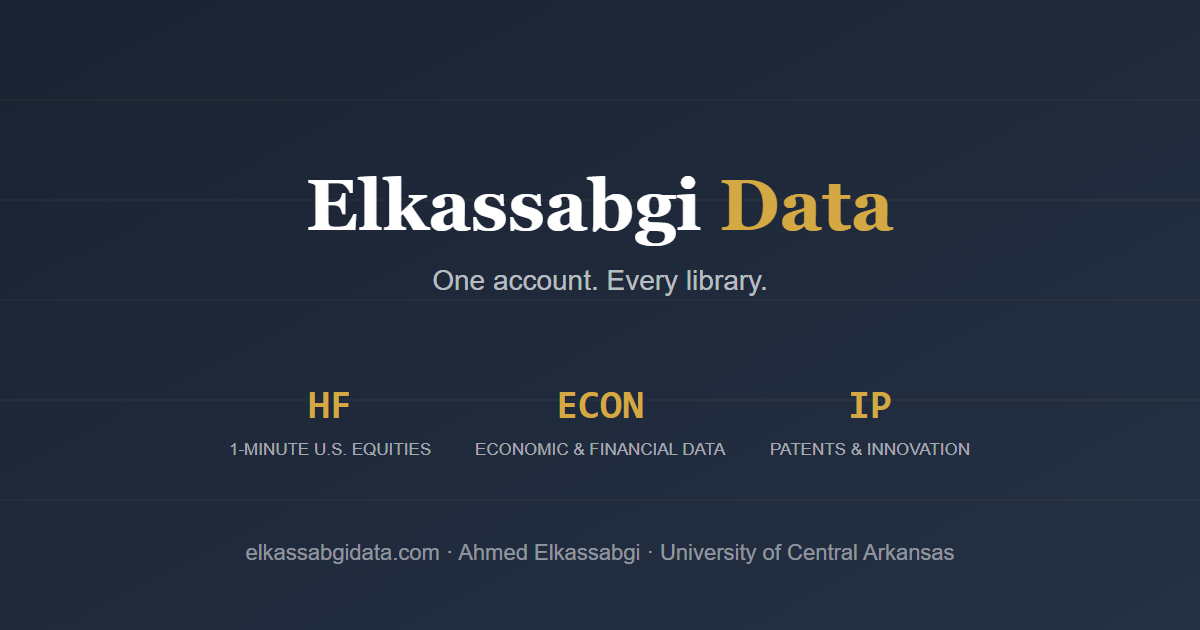
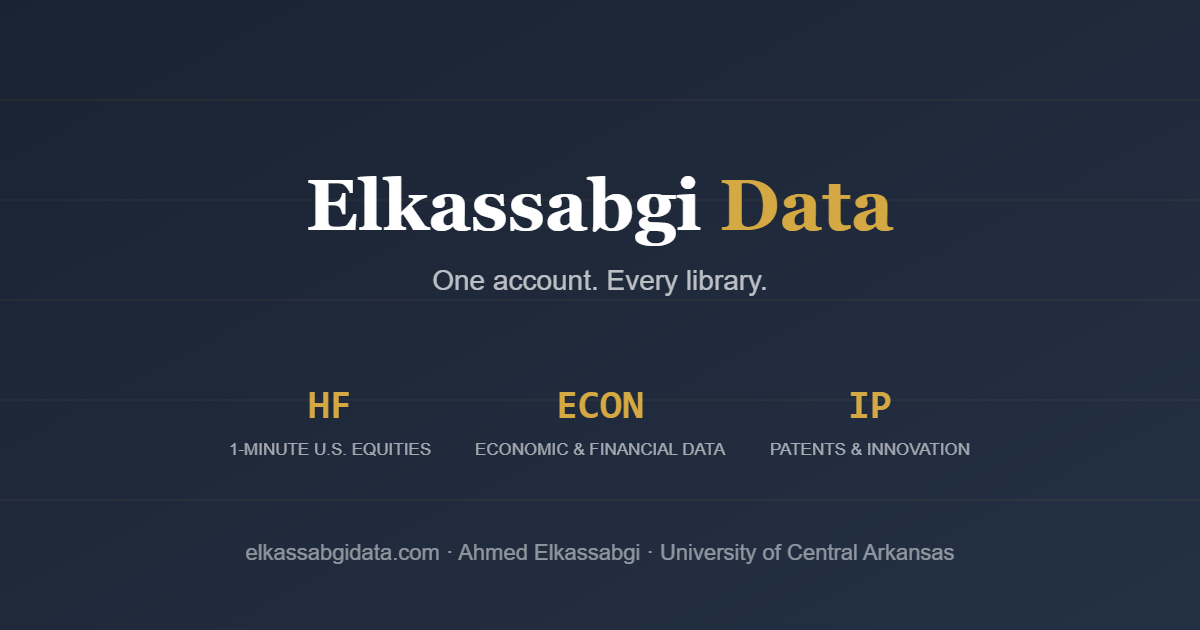
share cards: grey letter smoothing, the pictures pinned, one sentence corrected
Review AR-307 (pass with notes).

- The texts of this branch said that "the sites" show the totals with a notice that they are being
  recalculated. Only the econ home page shows that notice. The docstrings of make_cards.py and of the test now
  say so.
- The two PNGs are rendered again with --disable-lcd-text: the small text had colour fringes on its letters,
  and the hf card has grey smoothing. Measured on the tagline and byline rows: 5,256 (econ) and 4,312 (portal)
  letter pixels with a fringe before, 0 after. The SVG sources did not change.
- tests/test_share_cards.py pins the bytes of each PNG beside the text of its SVG: a changed source without a
  new render fails, and a changed picture without a new pin fails (the card of 2026-08-21 put back as the PNG
  passed before). The figure check now runs cards built with the old tiles, a figure in words and a figure in
  a label through the same reader. The portal check reads the three library cards of the page, in order.
- make_cards.py says how to render, and that the picture depends on the fonts of the machine.

Tests: 8 pass (tests/test_share_cards.py).

diff --git a/tests/test_share_cards.py b/tests/test_share_cards.py
@@ -1,12 +1,16 @@
 """The two share cards (catalog/site/assets/og-image.png, portal/assets/og-image.png) and their SVG sources.
 
 A card is a still picture. The cards of 2026-08-21 showed headline totals and a source count; the sites no
-longer state those values, and a picture cannot carry the "being recalculated" notice that the pages show
-beside the totals. So: the card sources hold NO figure, and this test fails when one is put back.
+longer state those values, and a picture cannot carry the "being recalculated" notice that the econ home page
+shows beside its totals. So: the card sources hold NO figure, and this test fails when one is put back.
 
 What a test of a picture can and cannot do: it reads the SVG sources (the words) and the PNG headers (the
-size). It does not read the pixels: that the PNG is the rendering of the SVG is checked by a person who looks.
+size), and it PINS the bytes of each PNG beside the text of its SVG. It does not read the pixels. So a changed
+SVG without a new render fails, and a changed PNG without a new pin fails; that the pinned PNG is the true
+rendering of the pinned SVG was checked by people who looked (review AR-307). Whoever changes a pin renders,
+looks at the picture, and then pins.
 """
+import hashlib
 import os
 import re
 import struct
@@ -20,6 +24,17 @@ import make_cards  # noqa: E402
 
 TEXT = re.compile(r"<text\b[^>]*>(.*?)</text>", re.S)
 
+# name of the source -> (sha256 of its text with LF line ends, the served PNG, sha256 of the PNG's bytes)
+PINS = {
[1 lines of base64/hex data omitted]
+                 "catalog/site/assets/og-image.png",
[2 lines of base64/hex data omitted]
+                   "portal/assets/og-image.png",
[1 lines of base64/hex data omitted]
+}
+MAGNITUDE = re.compile(r"\b(hundreds?|thousands?|millions?|billions?|trillions?|dozens?)\b", re.I)
+
 
 def _words(svg):
     """The visible words of an SVG: the content of its <text> elements, tags and entities removed."""
@@ -30,11 +45,33 @@ def _words(svg):
     return out
 
 
+def _figures(svg):
+    """The words of a card that hold a figure: a digit (the one allowed is the 1 of "1-MINUTE"), a "+", or a
+    magnitude in words."""
+    hits = []
+    for t in _words(svg):
+        rest = t.replace("1-MINUTE", "")
+        if re.search(r"\d", rest) or "+" in rest or MAGNITUDE.search(rest):
+            hits.append(t)
+    return hits
+
+
 def test_the_committed_sources_are_what_the_script_writes():
     for name, svg in make_cards.CARDS.items():
         with open(os.path.join(CARDS_DIR, name), encoding="utf-8", newline="") as fh:
             # a Windows checkout can hold CRLF; the words are what is compared
             assert fh.read().replace("\r\n", "\n") == svg, name + " differs from make_cards.py: run the script, render, commit"
+
+
+def test_each_png_is_pinned_beside_its_source():
+    assert set(PINS) == set(make_cards.CARDS)
+    for name, (svg_sha, png_rel, png_sha) in PINS.items():
+        assert hashlib.sha256(make_cards.CARDS[name].encode("utf-8")).hexdigest() == svg_sha, (
+            name + " changed: render it again, LOOK at the picture, then pin the source and the PNG")
+        with open(os.path.join(ROOT, *png_rel.split("/")), "rb") as fh:
+            assert hashlib.sha256(fh.read()).hexdigest() == png_sha, (
+                png_rel + " is not the picture that was looked at for " + name)
+    assert len({p[2] for p in PINS.values()}) == len(PINS), "two cards with one picture"
 
 
 def test_the_cards_say_these_words_and_no_others():
@@ -48,15 +85,23 @@ def test_the_cards_say_these_words_and_no_others():
 
 
 def test_no_card_holds_a_figure():
-    """No count, no total, no "+": the one digit allowed is the 1 of "1-MINUTE"."""
-    figure = re.compile(r"\d")
     for name, svg in make_cards.CARDS.items():
-        for t in _words(svg):
-            rest = t.replace("1-MINUTE", "")
-            assert not figure.search(rest) and "+" not in rest, (name, t)
-    # the instrument can fail: the words of the old cards are caught
-    for old in ("79.7B+", "7.7B+", "309", "3"):
-        assert figure.search(old)
+        assert _figures(svg) == [], name
+
+
+def test_the_figure_check_refuses_the_old_cards_and_a_figure_in_words():
+    """The instrument can fail: cards built with the old tiles go through the same reader."""
+    byline = "x &#183; y"
+    old_econ = make_cards.card("Econ Data", "Library", "tagline", ("79.7B+", "7.7B+", "309"),
+                               ("OBSERVATIONS", "SERIES", "SOURCES"), None, byline)
+    assert _figures(old_econ) == ["79.7B+", "7.7B+", "309"]
+    old_portal = make_cards.card("Elkassabgi", "Data", "tagline", ("79.7B+", "7.7B+", "3"),
+                                 ("OBSERVATIONS", "SERIES", "DATA LIBRARIES"), None, byline)
+    assert _figures(old_portal) == ["79.7B+", "7.7B+", "3"]
+    in_words = make_cards.card("a", "b", "c", ("LICENSE", "PROVENANCE", "CITATION"), None, "ON BILLIONS OF SERIES", byline)
+    assert _figures(in_words) == ["ON BILLIONS OF SERIES"]
+    in_label = make_cards.card("a", "b", "c", ("HF", "ECON", "IP"), ("1-MINUTE 304M U.S. EQUITIES", "x", "y"), None, byline)
+    assert _figures(in_label) == ["1-MINUTE 304M U.S. EQUITIES"]
 
 
 def test_the_econ_card_uses_the_home_pages_own_sentence():
@@ -64,10 +109,12 @@ def test_the_econ_card_uses_the_home_pages_own_sentence():
     assert "Every series carries its license, provenance, and producer-first citation." in " ".join(home.split())
 
 
-def test_the_portal_card_names_the_libraries_the_portal_names():
+def test_the_portal_card_names_exactly_the_libraries_the_portal_lists():
     page = open(os.path.join(ROOT, "portal", "index.html"), encoding="utf-8").read()
-    for name in ("HF Data Library", "Econ Data Library", "IP Data Library"):
-        assert name in page, name
+    listed = re.findall(r'<div class="lib">.*?<h3>(.*?)</h3>', page, re.S)
+    assert listed == ["HF Data Library", "Econ Data Library", "IP Data Library"], listed
+    tiles = _words(make_cards.CARDS["portal.svg"])[2:5]
+    assert tiles == [n.split(" ")[0].upper() for n in listed]
 
 
 def test_both_pngs_are_1200_by_630():

diff --git a/tools/social_cards/make_cards.py b/tools/social_cards/make_cards.py
@@ -3,7 +3,7 @@
     python -B tools/social_cards/make_cards.py            writes econ.svg and portal.svg beside this file
 
 THE CARDS CARRY NO HEADLINE FIGURE. A card is a still picture: it cannot show the "being recalculated" notice
-that /v1/stats and the home pages show beside the totals, and a figure on it is wrong the day the census
+that /v1/stats and the econ home page show beside the totals, and a figure on it is wrong the day the census
 changes. The cards of 2026-08-21 showed totals and a source count that the sites no longer state. So the tiles
 are words the pages themselves use:
   econ    "Every series carries its license, provenance, and producer-first citation." (catalog/site/index.html)
@@ -11,9 +11,15 @@ are words the pages themselves use:
 The design is the family's (the hf card): the same ground, title, tagline, tile row and byline.
 
 RENDERING (by hand, then the PNGs are committed): a 1200x630 screenshot of each SVG with a local browser, e.g.
-    chrome --headless=new --hide-scrollbars --window-size=1200,630 --screenshot=<out.png> file:///<path>/econ.svg
+    chrome --headless=new --disable-lcd-text --hide-scrollbars --window-size=1200,630 \
+           --screenshot=<out.png> file:///<path>/econ.svg
+--disable-lcd-text gives grey smoothing on the letters, as on the hf card; without it the small text gets
+colour fringes. The picture depends on the fonts of the machine that renders: the SVGs name Inter and
+JetBrains Mono first, and the committed pictures were made where neither is installed, with Arial, Consolas
+and Georgia. Another machine can give another picture, so LOOK at each render before it is committed.
 The PNGs live at catalog/site/assets/og-image.png and portal/assets/og-image.png (served; the SVGs are not).
-tests/test_share_cards.py pins the texts of the two SVGs and the size of the two PNGs.
+tests/test_share_cards.py pins the texts of the two SVGs and the bytes of the two PNGs: after a new render,
+look at the picture, then put the two new sha256 values in its PINS.
 """
 from __future__ import annotations
 
